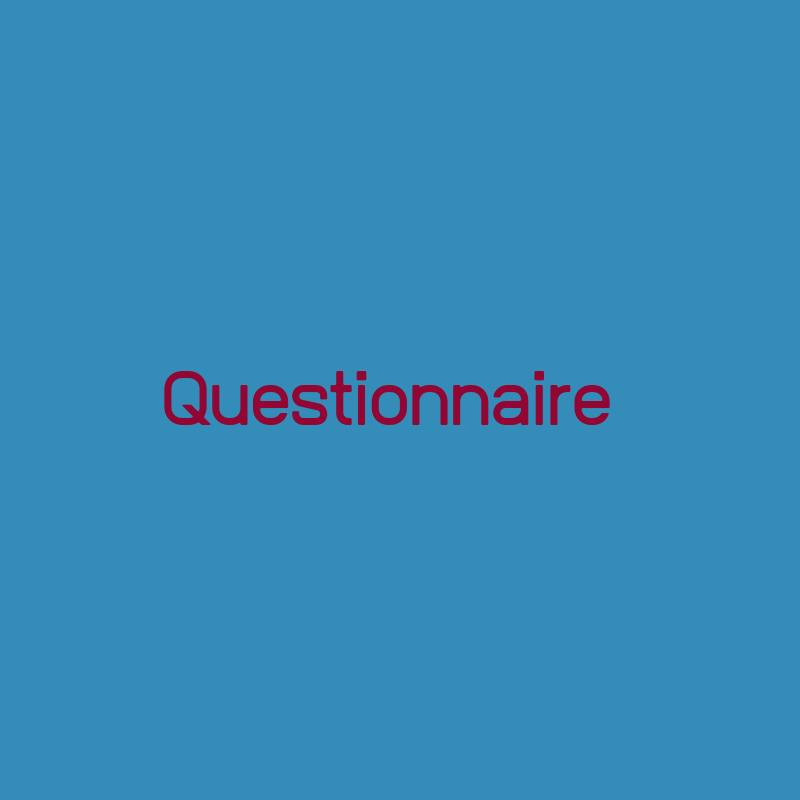
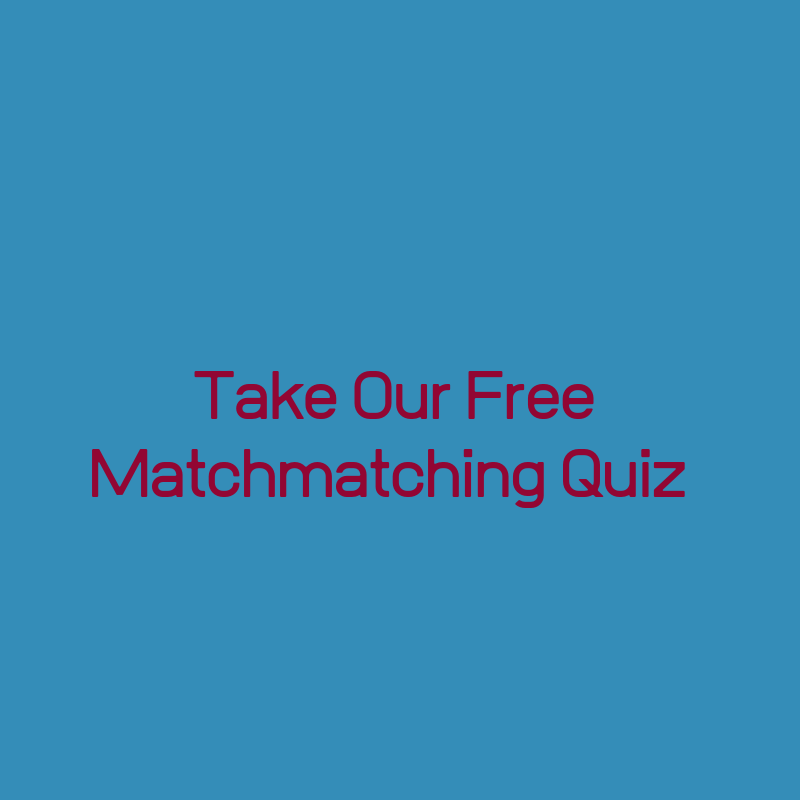
Landing page changes

Changed region(s): [[0.0938, 0.5625, 0.875, 0.6562], [0.1875, 0.4375, 0.7812, 0.5312]]

diff --git a/client/Landing.jsx b/client/Landing.jsx
@@ -12,57 +12,6 @@ class Landing extends React.Component {
   render() {
     return (
       <div className="landing">
-        <div className="parallax-container valign-wrapper">
-          <div className="container">
-            <h3 className="landing-tagline valign white-text animated zoomIn">Lorem ipsum dolor sit amet.</h3>
-            <a
-              href="/upload"
-              className="animated fadeInUpBig btn-large tooltipped waves-effect cyan accent-4 hoverable"
-              data-position="bottom"
-              data-delay="50"
-              data-tooltip="Upload a script"
-            >Get Started</a>
-          </div>
-          <div className="parallax"><img src="media/landing.jpg"/></div>
-        </div>
-        <br></br>
-        <div className="container wow fadeInUp">
-          <div className="parallax-container highlight valign-wrapper z-depth-4">
-            <div className="container">
-              <h3 className="valign landing-text white-text">Get Misfitter</h3>
-              <div className="landing-text flow-text white-text">
-              Lorem ipsum dolor sit amet, consectetur adipiscing elit, sed do eiusmod tempor incididunt ut labore et dolore magna aliqua. Ut enim ad minim veniam, quis nostrud exercitation ullamco laboris nisi ut aliquip ex ea commodo consequat.
-              </div>
-            </div>
-            <div className="parallax"><img src="media/work.jpg" /></div>
-          </div>
-        </div>
-        <br></br>
-        <div className="container wow fadeInRight">
-          <div className="parallax-container highlight valign-wrapper z-depth-4">
-            <div className="container">
-              <h3 className="valign landing-text white-text">Go OffScript</h3>
-              <div className="landing-text white-text flow-text">
-              Lorem ipsum dolor sit amet, consectetur adipiscing elit, sed do eiusmod tempor incididunt ut labore et dolore magna aliqua. Ut enim ad minim veniam, quis nostrud exercitation ullamco laboris nisi ut aliquip ex ea commodo consequat.
-              </div>
-            </div>
-            <div className="parallax"><img src="media/stage.jpg" /></div>
-          </div>
-        </div>
-        <br></br>
-        <div className="container wow fadeInLeft">
-          <div className="parallax-container highlight valign-wrapper z-depth-4">
-            <div className="container">
-              <h3 className="valign landing-text white-text">Stay OffScript</h3>
-              <div className="landing-text flow-text white-text">
-              Lorem ipsum dolor sit amet, consectetur adipiscing elit, sed do eiusmod tempor incididunt ut labore et dolore magna aliqua. Ut enim ad minim veniam, quis nostrud exercitation ullamco laboris nisi ut aliquip ex ea commodo consequat. Duis aute irure dolor in reprehenderit in voluptate velit esse cillum dolore eu fugiat nulla pariatur. Excepteur sint occaecat cupidatat non proident, sunt in culpa qui officia deserunt mollit anim id est laborum.
-              </div>
-              <a className="btn waves-effect cyan hoverable modal-trigger" href="#modal-login">Login / Signup</a>
-            </div>
-            <div className="parallax"><img src="media/books.jpg" /></div>
-          </div>
-        </div>
-        <br/>
         <About />
       </div>
     );

diff --git a/client/About.jsx b/client/About.jsx
@@ -14,18 +14,13 @@ class About extends React.Component {
         <div className="container">
           <div className="card medium about-card grey lighten-4 z-depth-4">
             <div className="card-content">
-              <h5>About Us</h5>
+              <h5 class="maxtield">ABOUT US</h5>
             </div>
             <div className="card-tabs">
               <ul className="tabs grey lighten-3">
                 <li className="tab">
                   <a href="#annah" className="cyan-text">
                     Jane Darling
-                  </a>
-                </li>
-                <li className="tab">
-                  <a href="#ryan" className="active cyan-text">
-                    Jane Deer
                   </a>
                 </li>
                 <li className="tab">

diff --git a/client/app.jsx b/client/app.jsx
@@ -21,7 +21,7 @@ class App extends React.Component {
         <Header user={this.state.user}/>
         <h1 class="maxtield"><img className="logo" src="assets/banner.png" /></h1>
         <ul id="nav-mobile" className="right hide-on-small-only">
-          <a className="btn waves-effect black" href="https://docs.google.com/forms/d/e/1FAIpQLSfvCyPqr7L3isnppbfcGbiDAjuqDEQdY8JQco1mPpFlvFrDqw/viewform"><img className="logo" src="assets/questionnaire.png" /></a>
+          <a className="" href="https://docs.google.com/forms/d/e/1FAIpQLSfvCyPqr7L3isnppbfcGbiDAjuqDEQdY8JQco1mPpFlvFrDqw/viewform"><img className="logo" src="assets/questionnaire.png" /></a>
         </ul>
         <Landing />
         <Footer />

diff --git a/client/Header.jsx b/client/Header.jsx
@@ -20,11 +20,11 @@ class Header extends React.Component {
 
   render() {
     return (
-      <nav className="transparent">
+      <div className="transparent">
         <div className="nav-wrapper">
           <a href="/"><img className="logo" src="assets/icon.png" /></a>
         </div>
-      </nav>
+      </div>
     );
   }
 }

diff --git a/public/style.css b/public/style.css
@@ -46,7 +46,7 @@ span.missing {
 }
 
 .logo {
-  height: 3em;
+  height: 7em;
   padding: 0.1em;
 }
 
